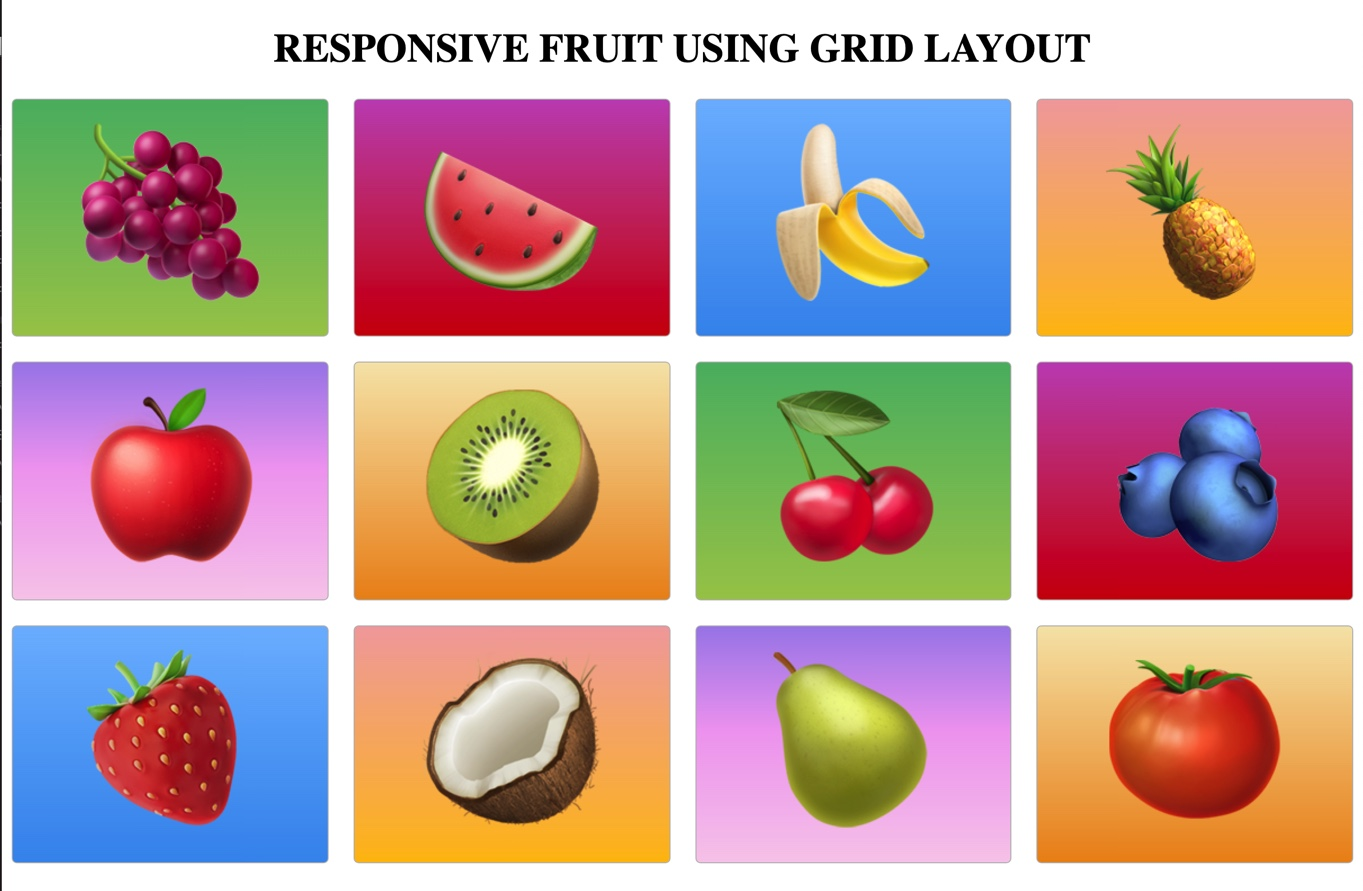
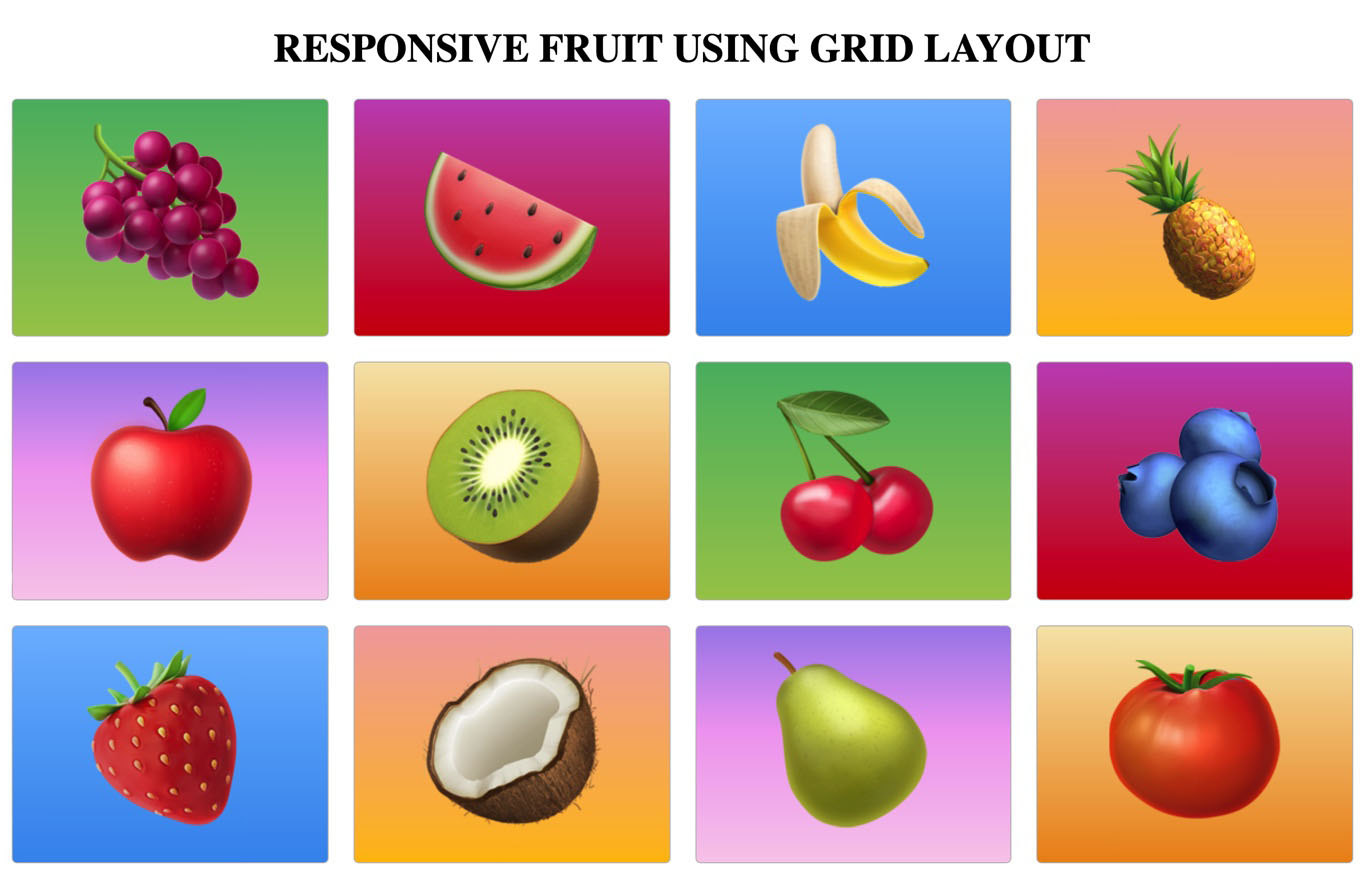
cleaned up images/added smile

Changed region(s): [[0.9861, 0.303, 1.0, 0.3636], [0.9861, 0.6061, 1.0, 0.6364]]

diff --git a/default.css b/default.css
@@ -108,9 +108,10 @@ ul {
 
 #webDevDuffy {
   /* display: inline-block; */
-  height: 75px;
-  width: 85px;
-  padding: 15px 0 0 15px;
+  height: 44.5px;
+  width: 132.75px;
+  margin: 15px 0 0 15px;
+  /* padding: 15px 0 0 15px; */
 }
 
 nav {
@@ -219,11 +220,20 @@ nav {
 }
 
 #devDuffy {
-  font-size: 24px;
+  font-size: 14px;
   text-align: center;
   color: var(--mainText);
   font-family: 'Russo One', sans-serif;
   font-weight: 500;
+}
+
+#smile {
+  height: 125px;
+  width: 125px;
+}
+
+#email {
+  padding-top: 1%;
 }
 
 @media only screen and (max-width: 700px) {

diff --git a/index.html b/index.html
@@ -142,8 +142,13 @@
 	<section class="s2">
 		<div class="main-container">
 			<div>
+				<h3>Get in touch!</h3>
+				<a><img src="/images/smile.png" id="smile"></a>
+			</div>
+			<div id="email">
 				<a id="devDuffy" href="mailto:info@webdevduffy.com" target="_blank">info@webdevduffy.com</a>
 			</div>
+
 
 
 		</div>
